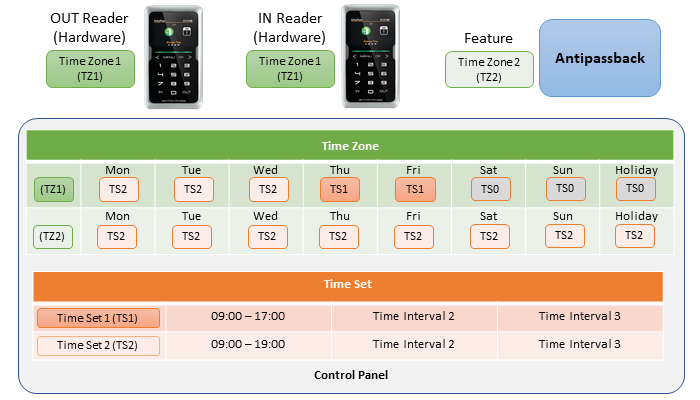
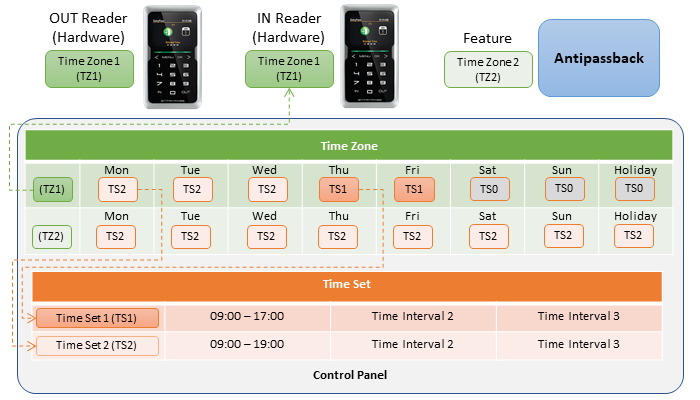
GitBook: [master] one page and 4 assets modified

diff --git a/time-set-and-time-zone/README.md b/time-set-and-time-zone/README.md
@@ -1,41 +1,62 @@
 # Time Set & Time Zone
 
-This section will cover the aspects of setting up Time Set and Time Zone. **System Users should take particular note on the importance of having proper settings for Time Set and Time Zone as it will affect operational timing for HARDWARE and FEATURES.** 
+This section will cover the aspects of setting up Time Set and Time Zone. **System Users should take particular note on the importance of having proper settings for Time Set and Time Zone as it will affect operating time for HARDWARE and FEATURES.** 
 
 ## Definition of Time Set and Time Zone
 
 ### Time Set
 
-* **Definition: The 'time frame' \(expressed in 'Hours and Minutes'\) for system's operation.** 
+* **Definition: The 'time frame' for system's operation.** 
+* **Parameter: TIME \(in hours and minutes\)**
 
 ### **Time Zone**
 
-* **Definition:** **The '**_**daily**_ **time frame' \(expressed in 'Days' including Holidays and \) for system's operation.** 
+* **Definition:** **The '**_**daily**_ **time frame' for system's operation.** 
+* **Parameter: DAY \(expressed in week including holiday\) AND TIME \(link to Time Set\)**
 
 ## Conceptual Framework of Time Set and Time Zone
 
-Time Set and Time Zone are two important settings within the Entrypass Platform1 Server System, where it will dictate the **'**_**daily**_ **time frame'** for operation on 'Feature' and 'Hardware' connected to the Control Panel. 
+![Image 1](../.gitbook/assets/presentation5.png)
 
-* Time Zone: specify operational Day \(Monday to Sunday inc. Holiday\)
-* Time Set: specify operational Time \(Time Intervals in minutes and hours\)
+Time Set and Time Zone are two important settings within the Entrypass Platform1 Server System, where it will dictate the **'**_**daily**_ **operating** **time frame'** for 'connected Hardware and Feature' to the Control Panel. To further explain on how DAY and TIME can be controlled, we can see from Image 1 that Time Zone will be responsible in dictating the Day for operation while within each Day, there will be a reference to Time Set to control the operating time range FOR THAT DAY \(refer to Image 2\). 
 
-![Image 1](../.gitbook/assets/presentation2%20%281%29.png)
+![Image 2](../.gitbook/assets/presentation6.png)
 
-All 'Features' and 'Hardware' will be assigned and monitored by the Control Panel \(Image 1\) using Time Zone. Each **Time Zone** \(e.g. TZ1\) will specify the **days** to operate while **within each day**, it will contain a reference to **Time Set** specifying the **time \(in intervals\)** to operate. Therefore, it is important to note that:
+1. **Time Zone:** Each line across represents a single Time Zone where it will define the operating days in the week \(Monday to Sunday\) including holidays.
+2. **Time Set:** Within each day, a Time Set will be 'chosen' to define the operating time for that particular day.
+3. **Time Interval:** This is where you set the operating time range.
 
-{% hint style="danger" %}
-The Control Panel will **TURN ON OR OFF**_**,**_ **all Features and Hardware connected according to Time Zone assigned.** 
+![Image 3](../.gitbook/assets/presentation4.png)
+
+Generally, **all connected Hardware and Feature will be assigned with a Time Zone** so that their daily operating time frame can be defined and controlled \(Image 3\). To illustrate how a Hardware OR Feature can be controlled, we shall take a look at the IN Reader \(Image 3\) which had been assigned with Time Zone 2. It's daily operating time frame will be as follows:
+
+| Days \(Time Zone 1\) | Time |
+| :--- | :--- |
+| Monday to Wednesday | 09:00 - 17:00 \(Time Set 2\) |
+| Thursday to Friday | 09:00 - 19:00 \(Time Set 1\) |
+| Saturday, Sunday and Holiday | Not Active \(Time Set 0\)\* |
+
+The table above demonstrates how Time Set and Time Zone working together to control the operational day and time frame of any Hardware or Feature. 
+
+## Steps in Creating Time Zones
+
+The following steps will always apply when customising your day and time operational requirements for any Hardware or Feature.
+
+{% hint style="info" %}
+* STEP 1 \(Create Time Set\): Always create the required Time Set in the system and specify operational times.
+* STEP 2 \(Create Time Zone\): At the Time Zone section, you will specify what are the operational times for each day within the week.
+* STEP 3 \(Assign Time Zone\): Go to any hardware or feature settings to assign the newly created Time Zone to activate or customise its operational day and time.
 {% endhint %}
 
-## Description on Time Set and Time Zone settings
+## Understanding Time Set and Time Zone settings
 
 ### Time Set Settings
 
 ![](../.gitbook/assets/time-set1.png)
 
 1. **Name:** The name of Time Sets are numerical and automatically assigned when a new Time Set is created.
-2. **Description:** This is the column where you can input the description of a newly created Time Set.
-3. **Interval:** This column describes '**Time Range'.** The range can start from **00:00 \(12.00am\) to 23:59 \(11.59pm\)** while you can set up to 3 different time ranges' within a single Time Set. 
+2. **Description:** This is the column where you can input the description for a newly created Time Set.
+3. **Interval:** This column describes '**Time Range'.** The range can start from **00:00 \(12.00am\) to 23:59 \(11.59pm\)** while you can set up to 3 different time range in a Time Set. 
 
 Time Set comes with the following settings:
 
@@ -49,8 +70,8 @@ Time Set comes with the following settings:
 
 ![](../.gitbook/assets/time-zone-1%20%281%29.png)
 
-1. **Name:** The name of Time Sets are numerical and automatically assigned when a new Time Set is created.
-2. **Description:** This is the column where you can input the description of a created Time Set.
+1. **Name:** The name of Time Zones are numerical and automatically assigned when a new Time Set is created.
+2. **Description:** This is the column where you can input the description of a created Time Zone.
 3. **Days:** This column describes **'Days' \(expressed in a single week\).** This range starts from **Monday to Sunday AND Public Holidays.** 
 4. **Time Set:** This section will contain references to Time Set which will dictate the operating hours for the system.
 
@@ -64,13 +85,7 @@ Time Zone comes with the following settings:
 
 ## System at Work
 
-This section will demonstrate how Time Zone and Time Set working together to control operation day and time. The following steps will always apply when customising your day and time operational requirements for any Hardware or Feature.
-
-{% hint style="info" %}
-* STEP 1 \(Create Time Set\): Always create the required Time Set in the system and specify operational times.
-* STEP 2 \(Create Time Zone\): At the Time Zone section, you will specify what are the operational times for each day within the week.
-* STEP 3 \(Assign Time Zone\): Go to any hardware or feature settings to assign the newly created Time Zone to activate or customise its operational day and time.
-{% endhint %}
+This section will demonstrate how Time Zone and Time Set work together to control operating day and time for Hardware and Feature. 
 
 ### Scenario
 
@@ -87,6 +102,8 @@ N-Mini2 reader operational requirements:
 ![](../.gitbook/assets/tstz3.png)
 
 ![](../.gitbook/assets/tstz4.png)
+
+
 
 To achieve the operational requirements above, the Time Set and Time Zone settings will be as following:
 
@@ -130,7 +147,7 @@ Now, the Time Zone is ready to be assigned. Just go to any Hardware or Feature s
 
 In order to understand Point 1 above, we shall create a hypothetical scenario to further demonstrate how this finer point works.
 
-![](../.gitbook/assets/presentation4.png)
+![](../.gitbook/assets/presentation4%20%281%29.png)
 
 {% hint style="info" %}
 N-Mini2 reader operational requirements:
